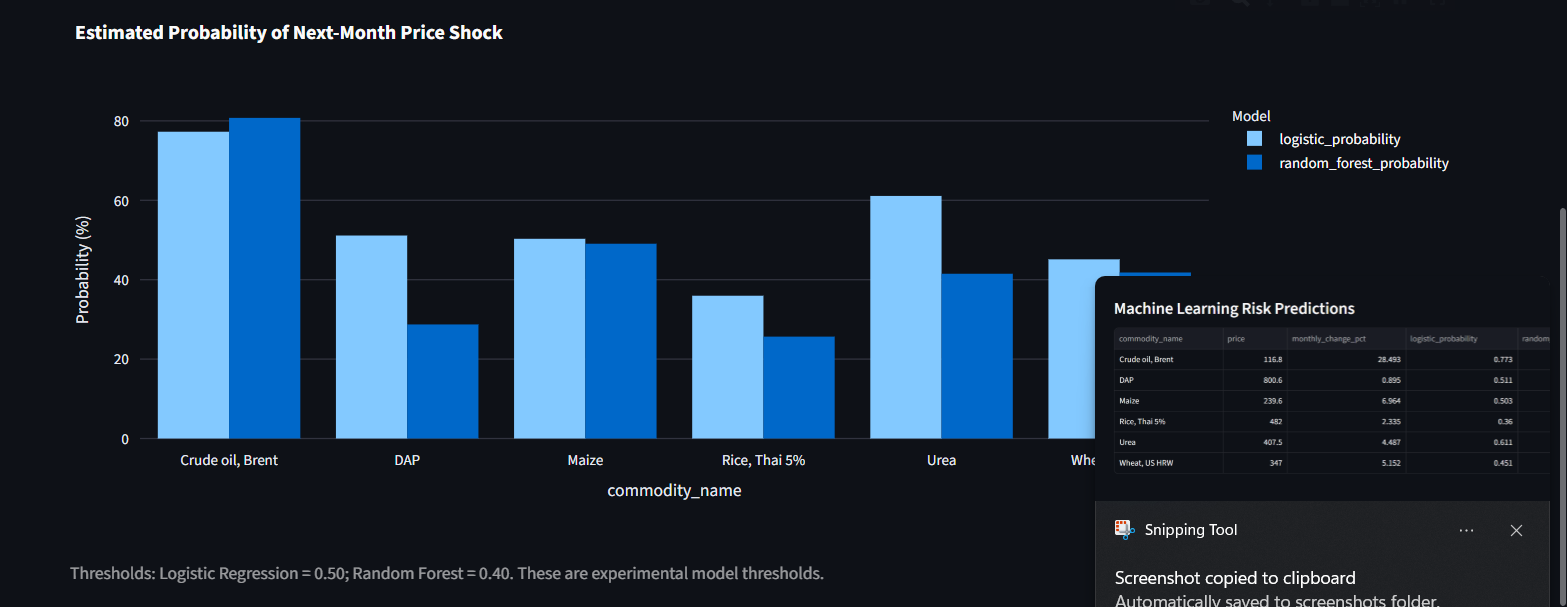
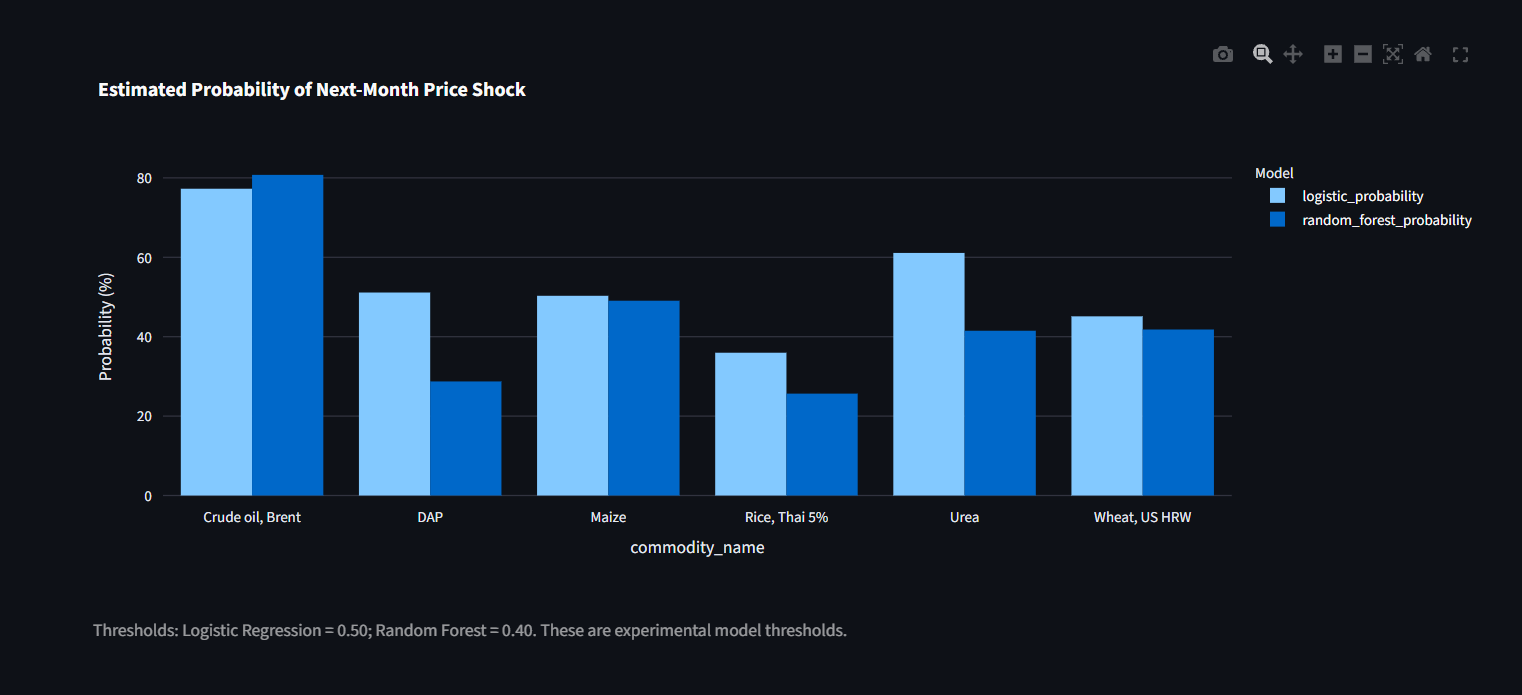
readme changed and images altered

diff --git a/README.md b/README.md
@@ -95,14 +95,21 @@ No OpenAI API key is required.
 
 ## Interactive Dashboard
 
-The Streamlit dashboard includes:
+The Streamlit dashboard provides an interactive interface for monitoring commodity price movements and machine learning risk predictions.
 
-- Commodity risk overview
-- Historical price trend charts
-- Monthly percentage change visualisations
-- Machine learning risk predictions
-- Model probability comparisons
-- AI-generated business risk reports
+### 1. Overview
+![Dashboard Overview](images/risk_overview.png)
+
+### 2. Price Trends
+![Commodity Price Trends](images/historical_price_analysis.png)
+(images/monthly_percentage_change.png)
+
+### 3. ML Risk Predictions
+![Machine Learning Predictions](images/ML_Risk_predictions.png)
+(images/Prob_next_month_shock.png)
+
+### 4. AI Business Report
+![AI Business Report](images/AI_Business_risk_Report.png)
 
 ## Project Structure
 
